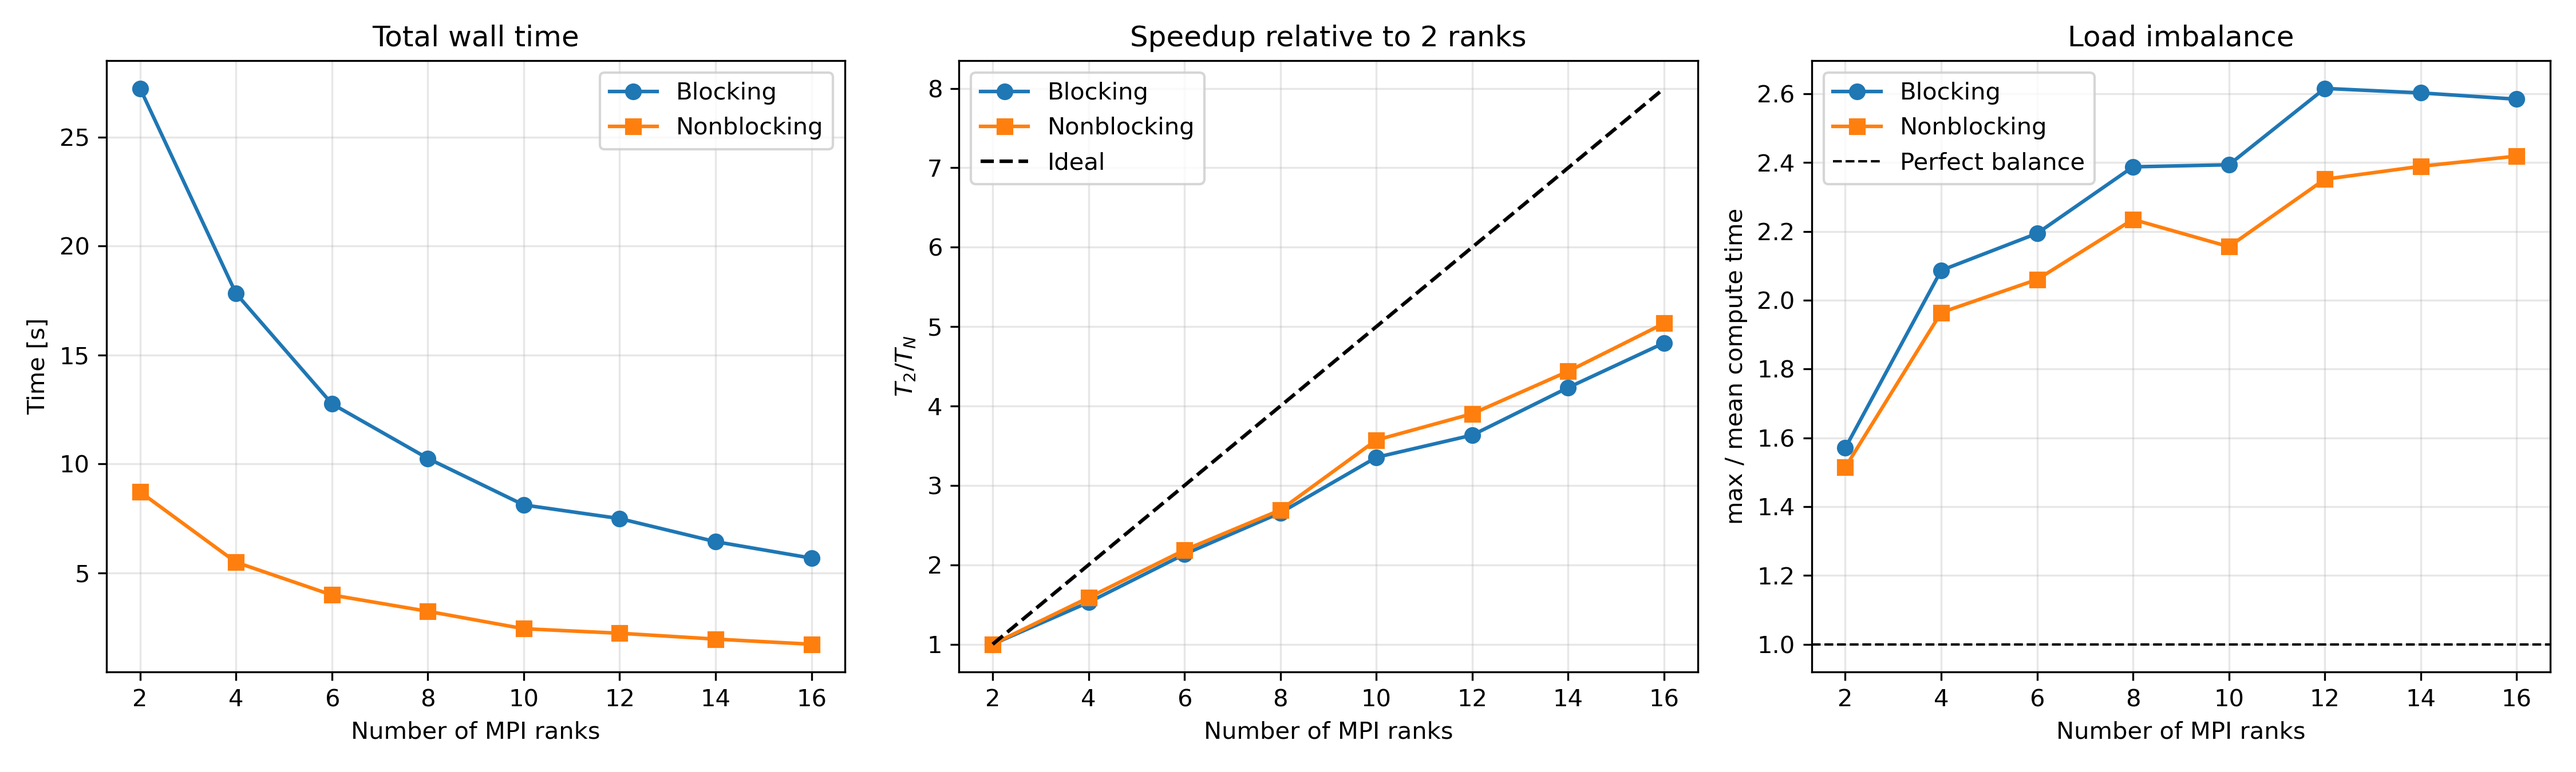
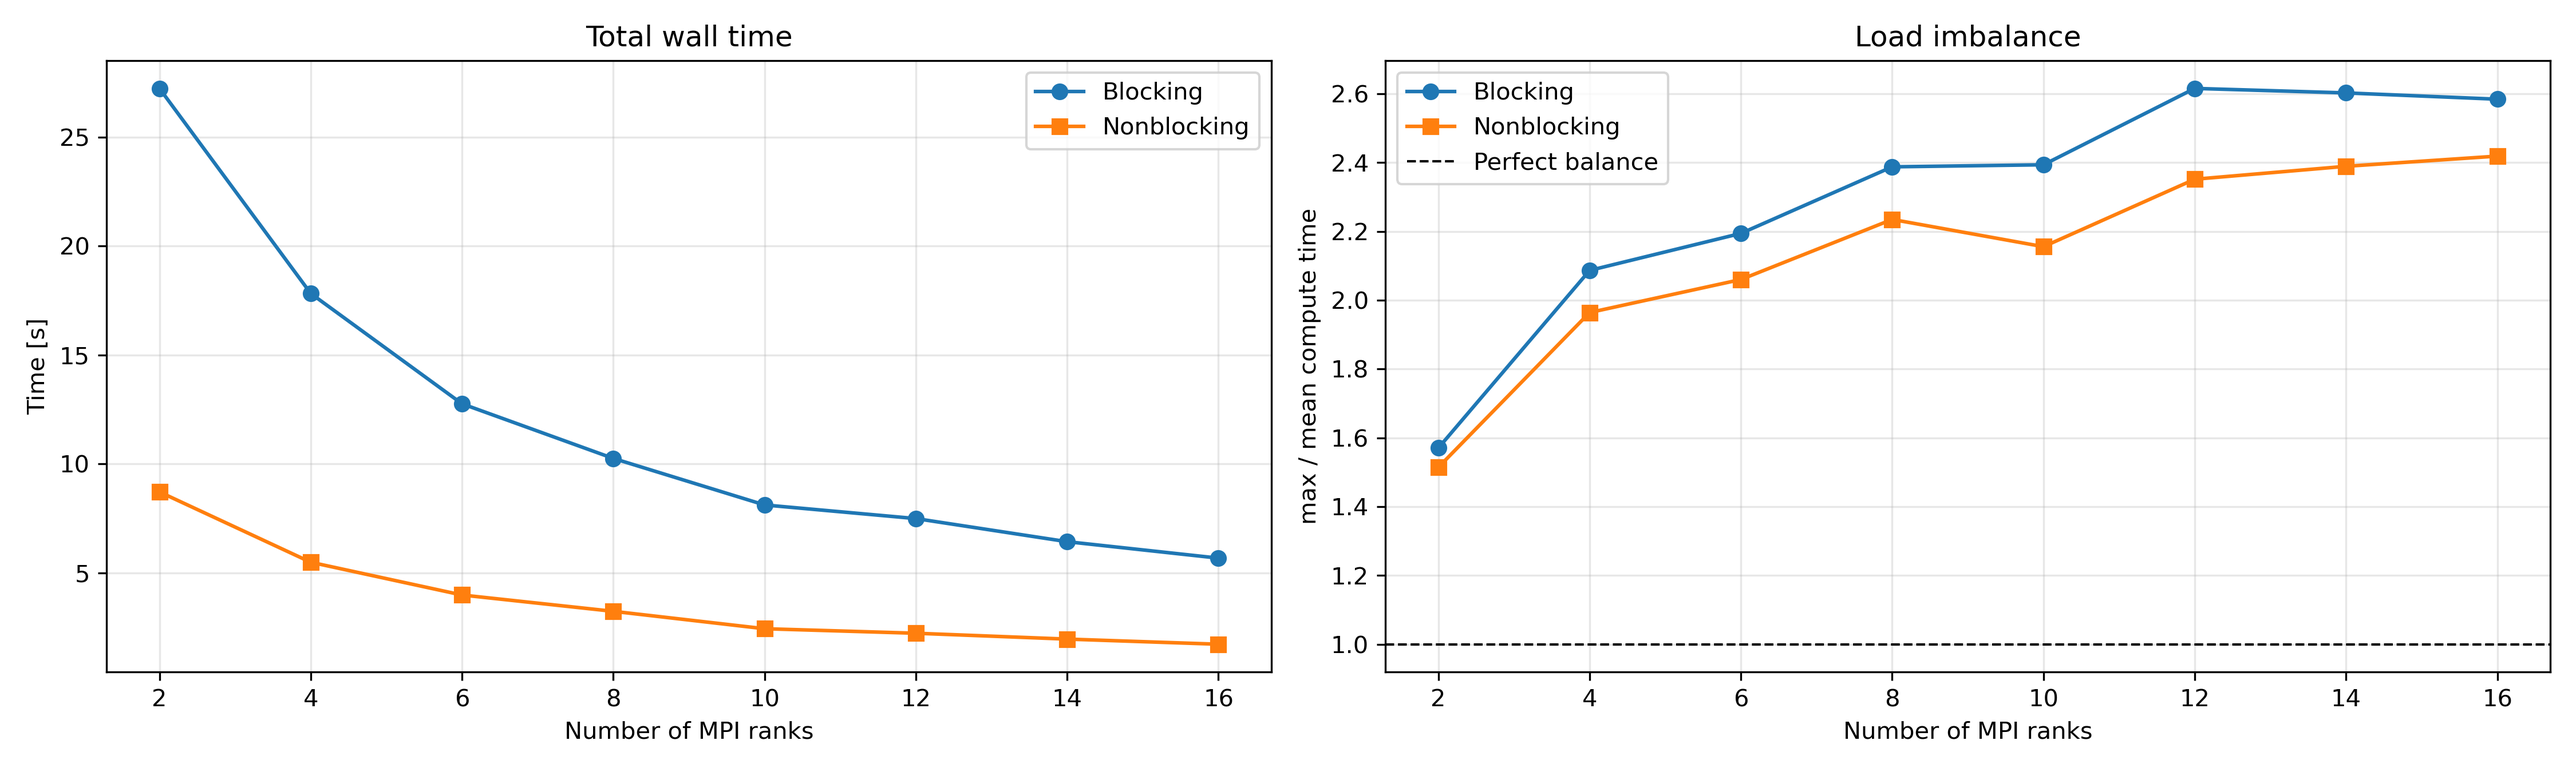
Updated plots to not have speedup relative to 2 ranks, did not make sense

diff --git a/PROJECT1/src/Plotting/scaling.py b/PROJECT1/src/Plotting/scaling.py
@@ -25,8 +25,8 @@ def load_variant(variant):
     return np.array(n), np.array(t_total), np.array(imbalance)
 
 
-fig, axes = plt.subplots(1, 3, figsize=(15, 4.5))
-ax_time, ax_speed, ax_imb = axes
+fig, axes = plt.subplots(1, 2, figsize=(15, 4.5))
+ax_time, ax_imb = axes
 max_ranks = 0
 
 for variant in VARIANTS:
@@ -38,21 +38,21 @@ for variant in VARIANTS:
 
     # Speedup relative to the smallest rank count that was run
     speedup = t[0] / t
-    ax_speed.plot(n, speedup, marker=MARKERS[variant], label=variant)
+    #ax_speed.plot(n, speedup, marker=MARKERS[variant], label=variant)
     ax_imb.plot(n, imb, marker=MARKERS[variant], label=variant)
 
 # Ideal speedup: doubling the ranks halves the time
 n_ideal = np.array(RANKS)
 n_ideal = n_ideal[n_ideal <= max_ranks]
-ax_speed.plot(n_ideal, n_ideal / n_ideal[0], "k--", label="Ideal")
+#ax_speed.plot(n_ideal, n_ideal / n_ideal[0], "k--", label="Ideal")
 
 ax_time.set_title("Total wall time")
 ax_time.set_xlabel("Number of MPI ranks")
 ax_time.set_ylabel("Time [s]")
 
-ax_speed.set_title(f"Speedup relative to {RANKS[0]} ranks")
-ax_speed.set_xlabel("Number of MPI ranks")
-ax_speed.set_ylabel(f"$T_{{{RANKS[0]}}} / T_N$")
+# ax_speed.set_title(f"Speedup relative to {RANKS[0]} ranks")
+# ax_speed.set_xlabel("Number of MPI ranks")
+# ax_speed.set_ylabel(f"$T_{{{RANKS[0]}}} / T_N$")
 
 ax_imb.set_title("Load imbalance")
 ax_imb.set_xlabel("Number of MPI ranks")
@@ -65,5 +65,5 @@ for ax in axes:
     ax.legend()
 
 fig.tight_layout()
-fig.savefig("../figures/Scaling/Both.png", dpi=300)
+fig.savefig("../figures/Scaling/Nonblocking.png", dpi=300)
 fig.show()
